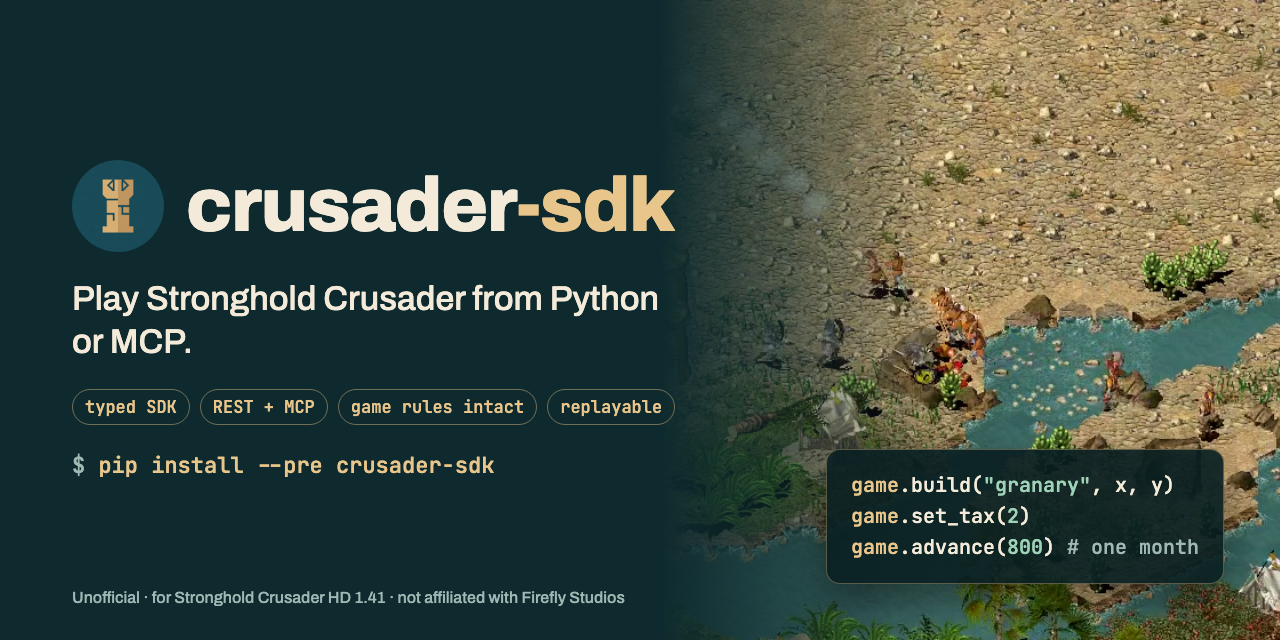
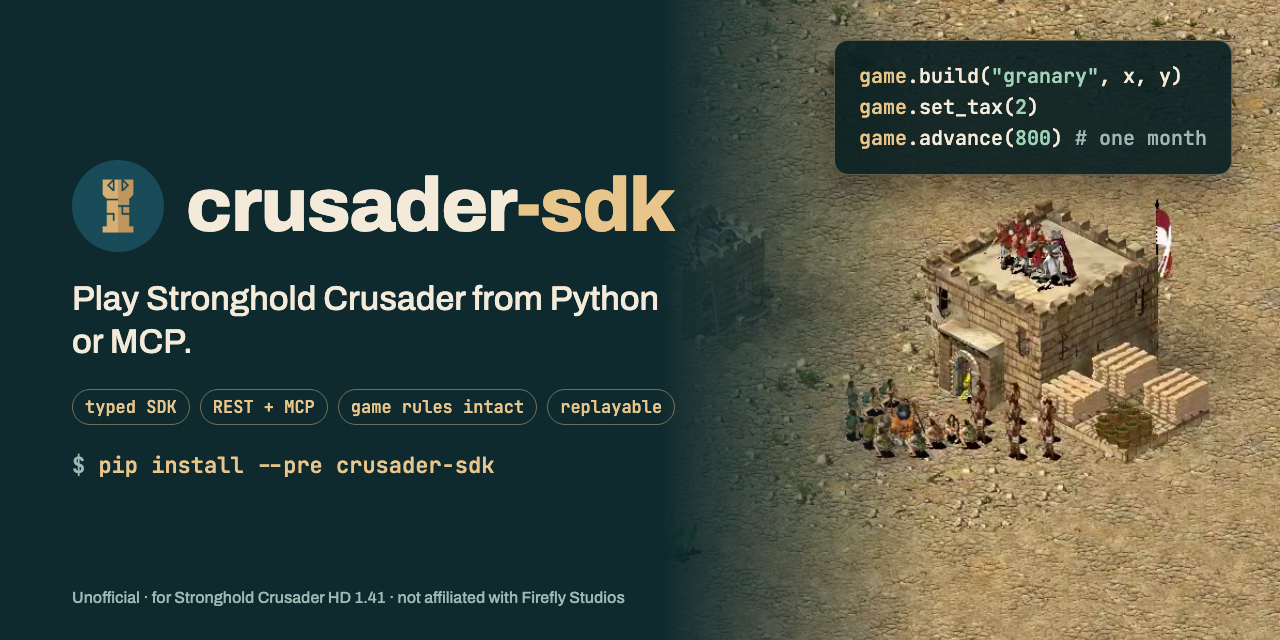
Social preview: castle frame in the clear zone, code box moved to the top right

diff --git a/assets/src/social-preview.html b/assets/src/social-preview.html
@@ -6,7 +6,7 @@
   *{margin:0;box-sizing:border-box}
   html,body{width:1280px;height:640px;overflow:hidden;background:var(--bg)}
   body{font-family:Archivo,system-ui,sans-serif;color:var(--ink);position:relative}
-  .shot{position:absolute;right:0;top:0;width:620px;height:640px;background:url(../hero.jpg) center/cover}
+  .shot{position:absolute;right:0;top:0;width:620px;height:640px;background:url(social-preview-game.jpg) center/cover}
   .shot::before{content:"";position:absolute;inset:0;background:linear-gradient(90deg,var(--bg) 0%,rgba(14,42,46,.55) 22%,rgba(14,42,46,0) 45%)}
   .left{position:absolute;left:72px;top:0;bottom:0;width:640px;display:flex;flex-direction:column;justify-content:center;gap:26px}
   .brand{display:flex;align-items:center;gap:22px}
@@ -18,7 +18,7 @@
   .chips b{font:500 17px "JetBrains Mono",monospace;color:var(--sand);border:1.5px solid rgba(232,197,138,.45);padding:6px 12px;border-radius:999px}
   .pip{font:500 22px "JetBrains Mono",monospace;color:var(--muted)}
   .pip i{font-style:normal;color:var(--sand)}
-  .code{position:absolute;right:56px;bottom:56px;background:rgba(10,31,34,.92);border:1px solid rgba(232,197,138,.35);border-radius:14px;padding:20px 24px;font:500 20px/1.55 "JetBrains Mono",monospace;color:var(--ink);box-shadow:0 18px 40px rgba(0,0,0,.45)}
+  .code{position:absolute;right:48px;top:40px;background:rgba(10,31,34,.92);border:1px solid rgba(232,197,138,.35);border-radius:14px;padding:20px 24px;font:500 20px/1.55 "JetBrains Mono",monospace;color:var(--ink);box-shadow:0 18px 40px rgba(0,0,0,.45)}
   .code .k{color:var(--sand)} .code .s{color:#9fd3b8} .code .c{color:var(--muted)}
   .foot{position:absolute;left:72px;bottom:34px;font:500 16px Archivo,sans-serif;color:var(--muted)}
 </style></head><body>
